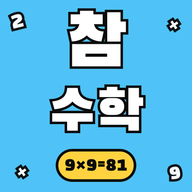
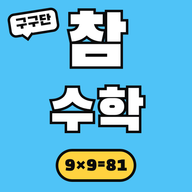
아이콘 모서리 장식을 말풍선 "구구단"으로 교체
애매하게 보이던 구석의 숫자·× 장식을 없애고, 왼쪽 위에 귀여운
말풍선으로 "구구단"을 넣어 한눈에 알아보기 쉽게 했다.

Claude-Session: https://claude.ai/code/session_0184bfGW23PdgZEQgzoqQm34

diff --git a/README.md b/README.md
@@ -221,11 +221,11 @@
     인앱 브라우저를 감지해 안드로이드는 크롬으로 자동 이동을 시도하고, 그래도 안 되거나 아이폰인
     경우 사이트 전체에(로그인 화면 포함) "주소 복사하기" 배너를 띄웁니다 (`components/InAppBrowserBanner.tsx`).
   - 홈 화면에 추가했을 때 보이는 아이콘은 하늘색 배경에 굵고 둥근 글씨체(Black Han Sans)로 "참
-    수학"을 검정 테두리로 새기고, 구석에 작은 숫자·× 장식과 "9×9=81" 뱃지를 곁들여 한눈에 구구단
-    앱임을 알 수 있게 만들었습니다(`app/icon.png`, `app/apple-icon.png`, `public/icon-192.png`,
-    `public/icon-512.png`, `app/manifest.ts`). 이게 생기기 전에는 브라우저가 화면 색을 대충 캡처해
-    회색빛 아이콘을 만들었던 것이라, 아이콘을 바꾼 뒤에는 기존에 이미 추가해둔 바로가기를 한 번
-    지우고 새로 추가해야 새 아이콘으로 바뀝니다.
+    수학"을 검정 테두리로 새기고, 왼쪽 위 말풍선에 "구구단", 아래에 "9×9=81" 뱃지를 곁들여 한눈에
+    구구단 앱임을 알 수 있게 만들었습니다(`app/icon.png`, `app/apple-icon.png`,
+    `public/icon-192.png`, `public/icon-512.png`, `app/manifest.ts`). 이게 생기기 전에는 브라우저가
+    화면 색을 대충 캡처해 회색빛 아이콘을 만들었던 것이라, 아이콘을 바꾼 뒤에는 기존에 이미 추가해둔
+    바로가기를 한 번 지우고 새로 추가해야 새 아이콘으로 바뀝니다.
   - 형제자매가 같은 학원에 다니는 경우: 홈 화면 바로가기는 사이트 주소 자체가 같아서 한쪽이 이미
     추가해뒀다면 다시 추가할 필요가 없습니다(②단계 안내에 이 내용을 명시). 다만 로그인(①)과 오늘의
     테스트(③)는 학생마다 계정이 달라 각자 따로 완료해야 하며, 관리자 화면에도 자녀별로 각각의
